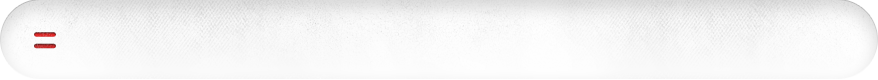
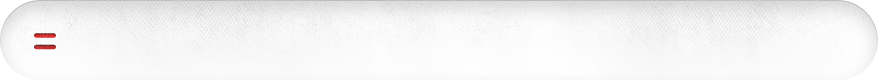
increase the height of the main metatag input area by 1 or 2 pixels as it seems to be cut off at the top.

diff --git a/app/assets/stylesheets/weave_common.css.scss b/app/assets/stylesheets/weave_common.css.scss
@@ -170,7 +170,7 @@ $strong_colour: #2e2d2c;
     position: relative;
     clear: both;
     width: 878px;
-    height: 80px;
+    height: 81px;
     background: url("input_metatagWeave.png") no-repeat 0 0;
     margin: 0 auto;
     
